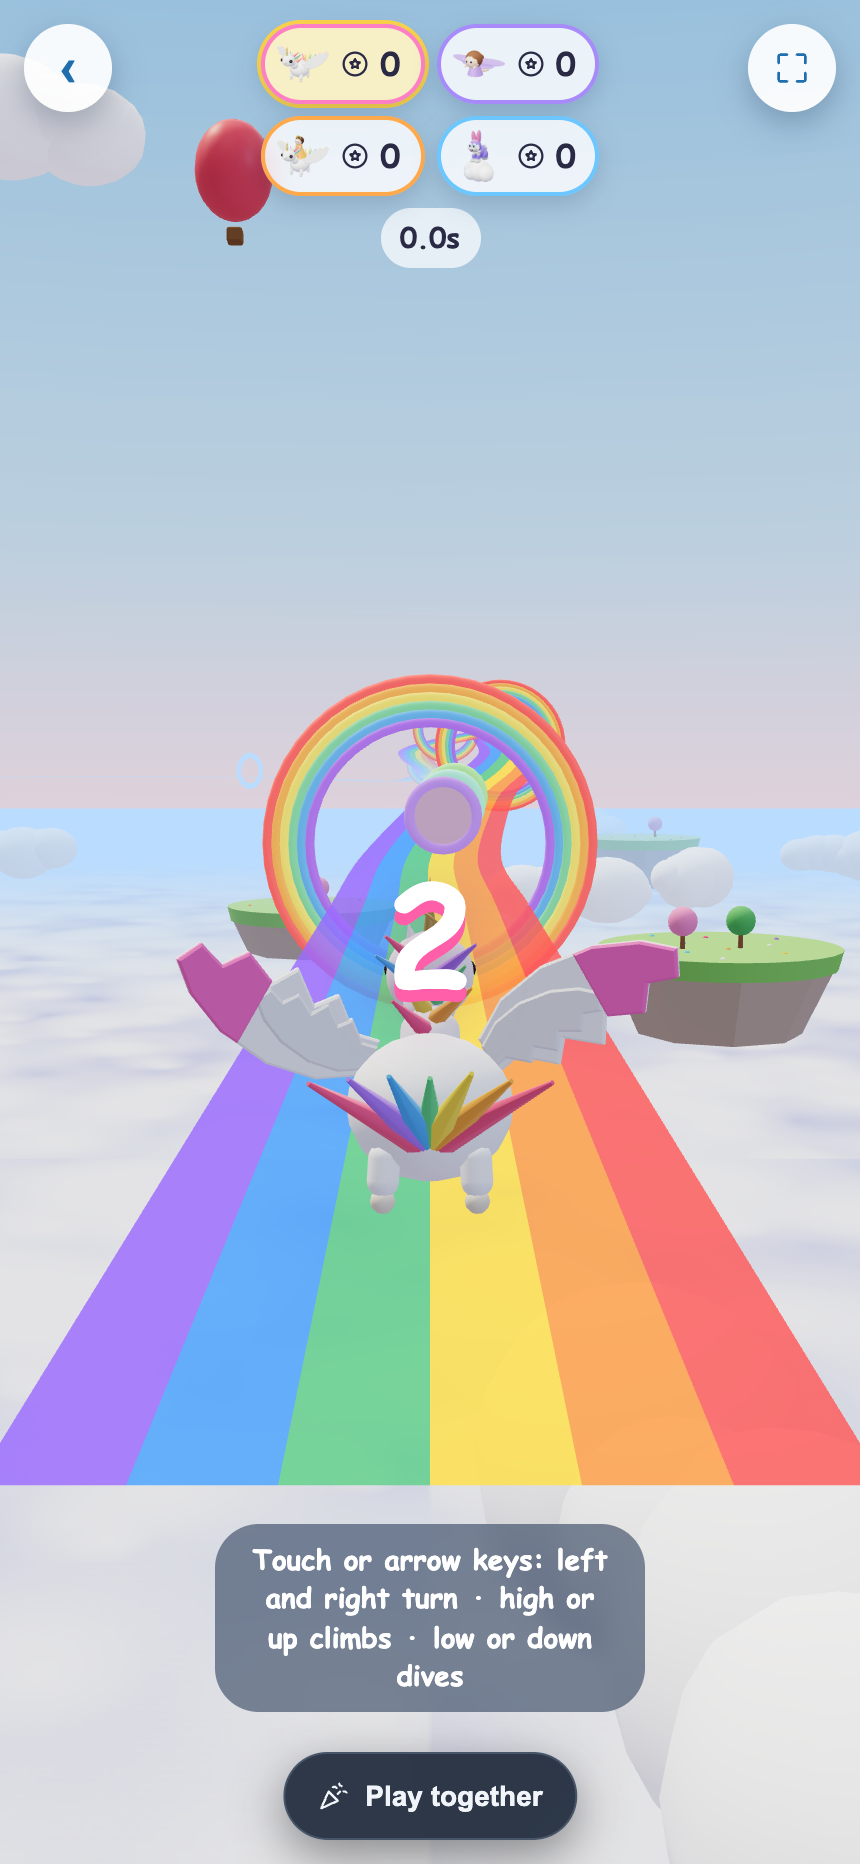
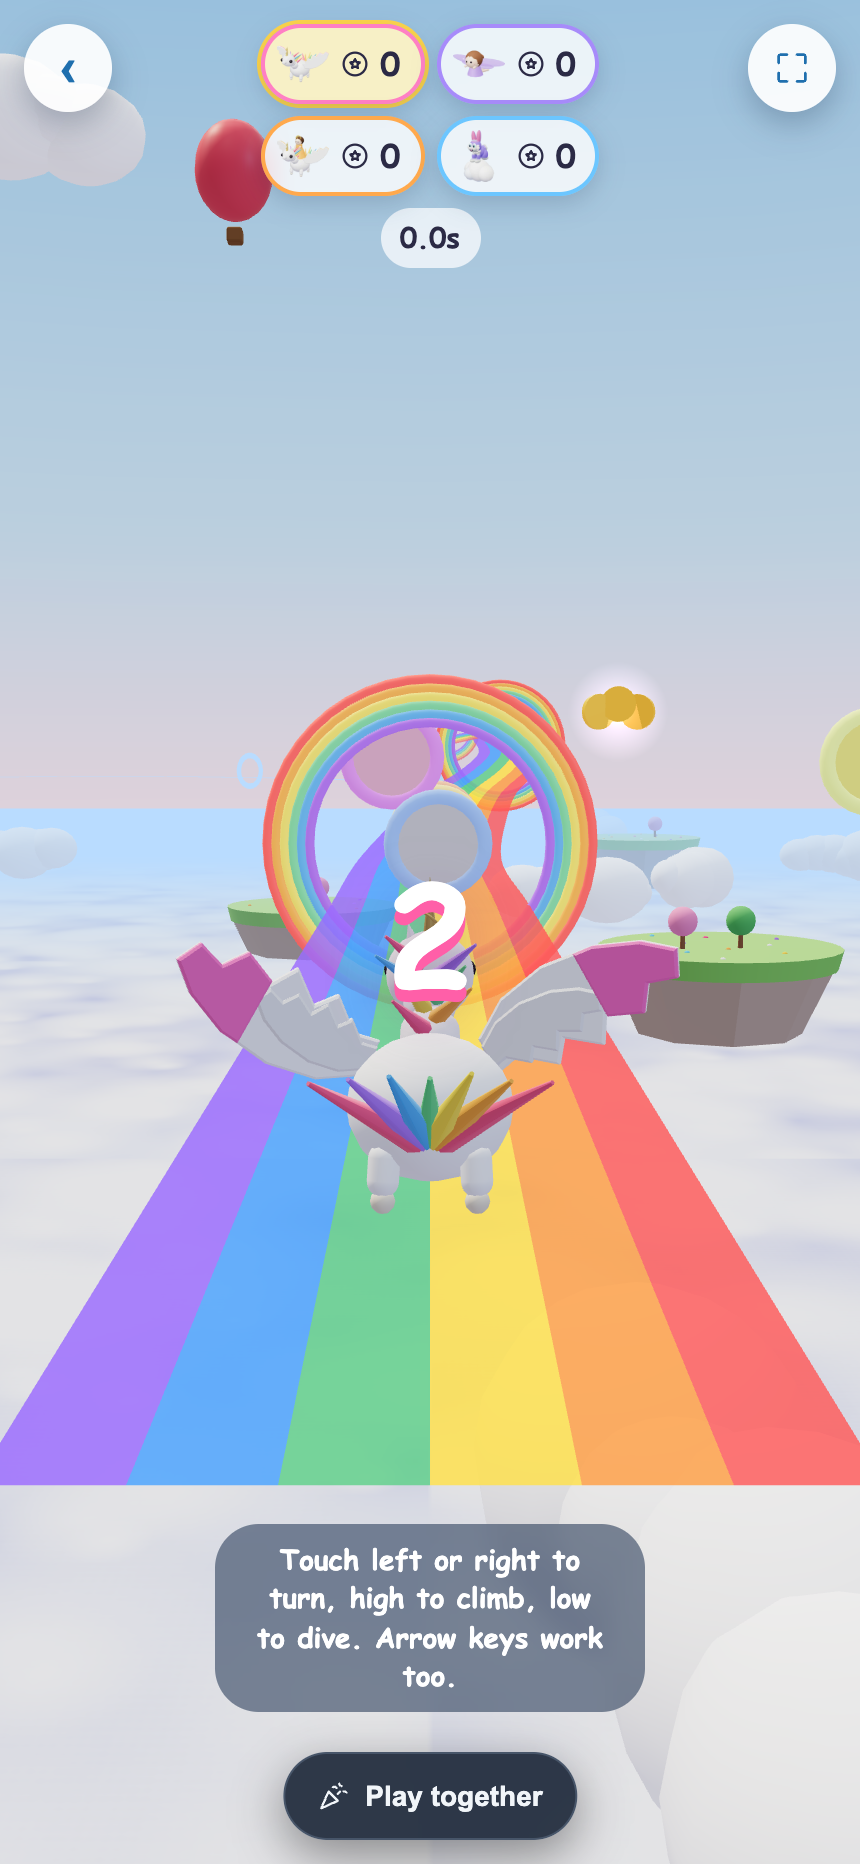
Racer: plainer hint and share copy, one Play together on the mode screen
The steering hint reads as one sentence a child can follow, the share-code
line says where your friend taps, and the floating pill steps aside on the
mode screen, whose own card is the Play together door (as on the Gulp menu).

diff --git a/src/games/racer/components/RacerSetup.tsx b/src/games/racer/components/RacerSetup.tsx
@@ -172,7 +172,7 @@ export function RacerLobby({
           <div className="racer-lobby-card">
             <h2>Share this code</h2>
             <div className="racer-code" data-testid="racer-code">{net.code}</div>
-            <p>Ask your friend to open Rainbow Racer, choose Play together, then Join with a code, and type this code.</p>
+            <p>On your friend&apos;s device: open Rainbow Racer, tap Play together, then Join with a code.</p>
             <p className="racer-lobby-status">
               {net.connected ? 'Connected! Starting…' : 'Waiting for your friend to join…'}
             </p>

diff --git a/src/games/racer/components/Track3D.tsx b/src/games/racer/components/Track3D.tsx
@@ -263,7 +263,7 @@ export function Track3D({
           driven by `hud.elapsed`, already sampled a few times a second above,
           rather than a timer of its own. */}
       <p className={`racer-hint${hud.racing && hud.elapsed > 4.5 ? ' racer-hint-faded' : ''}`}>
-        Touch or arrow keys: left and right turn · high or up climbs · low or down dives
+        Touch left or right to turn, high to climb, low to dive. Arrow keys work too.
       </p>
     </div>
   );

diff --git a/src/games/racer/styles/racer.css b/src/games/racer/styles/racer.css
@@ -663,3 +663,7 @@
   outline: 3px solid var(--r-blue-ink);
   outline-offset: 3px;
 }
+
+/* On the mode screen the "Play together" card is the door, so the floating
+   pill steps aside, as on the Gulp menu (a lit invitation still shows). */
+body:has(.racer-choices) .party-pill:not(.invite) { display: none; }
